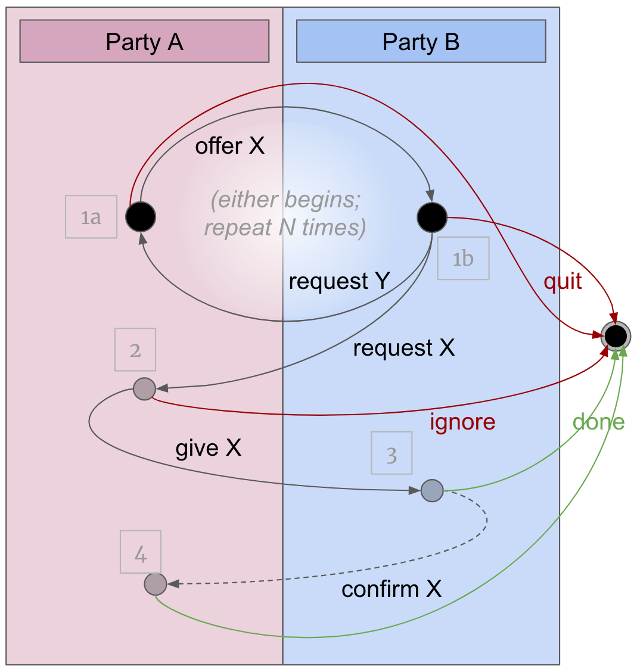
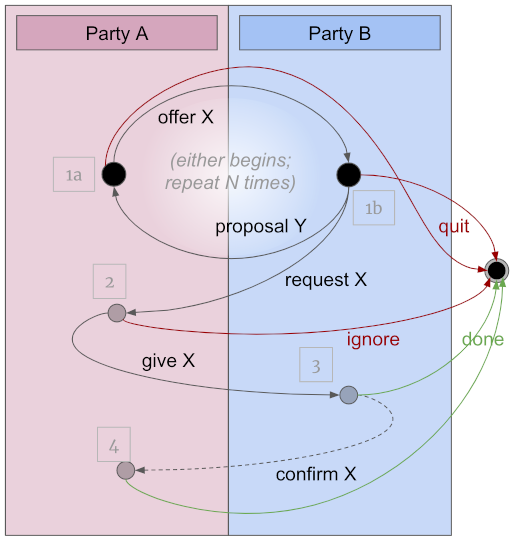
Update negotiation to use 'proposal'

diff --git a/text/0014-ssi-notation/README.md b/text/0014-ssi-notation/README.md
@@ -422,7 +422,7 @@ sequences like this:
 ![negotiation pattern](negotiation-pattern.png)
 
 Credential issuance follows this pattern: credential offer (step 1a) is either
-followed by an incompatible credential request (1b)--and this pair of messages
+followed by an incompatible credential proposal (1b)--and this pair of messages
 repeats as needed--or by a compatible credential request (2). A credential is
 then issued (3). Possibly the holder of the credential acknowledges receipt (4).
 
